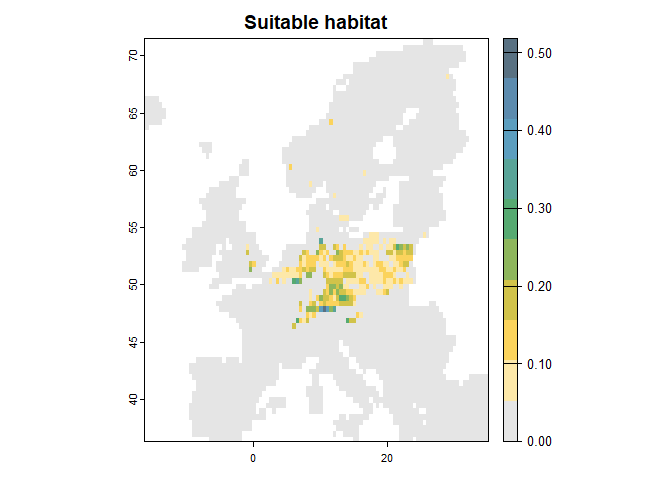
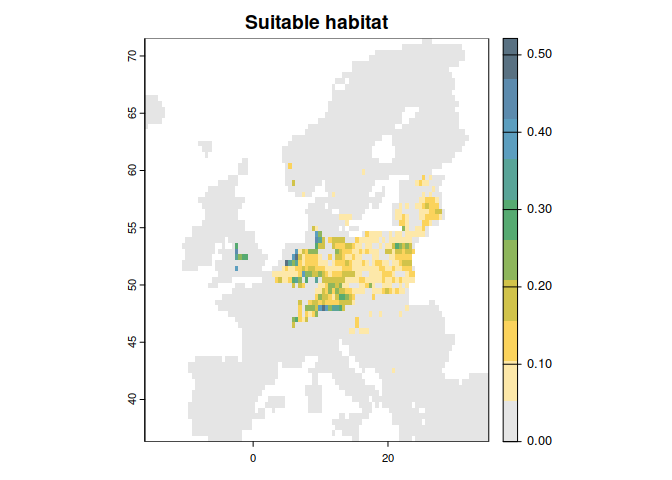
Support of stars objects for summaries

diff --git a/README.md b/README.md
@@ -30,8 +30,9 @@ and timestep $t$ as:
 $Insights_{s,t} = \frac{AOH_{s,t} - AOH_{s, t_{ref}}}{AOH_{s, t_{ref}}}$,
 where $t_{ref}$ indicates a reference or starting year.
 
-More information on the InSiGHTS framework can be found in [Rondini and
-Visconti 2015](https://doi.org/10.1111/cobi.12532), [Visconti et
+More information on the InSiGHTS framework can be found in [Pearson et
+al. 2004](https://doi.org/10.1046/j.1466-822X.2003.00042.x), [Rondini
+and Visconti 2015](https://doi.org/10.1111/cobi.12532), [Visconti et
 al. 2016](https://doi.org/10.1111/conl.12159) or [Baisero et
 al. (2021)](https://doi.org/10.1016/j.oneear.2020.05.015).
 
@@ -69,14 +70,19 @@ library(terra)
 ```
 
 Now we use the **ibis.iSDM** package to train a simple SDM and apply the
-InSiGHTS on it. Note that this also works on any other range estimate
-provided directly as a SpatRaster.
+InSiGHTS on it. The assumption here is that the SDMs are created using
+climatic variables (temperature, precipitation, etc.) only so as to
+create a climatic envelope model. The refinement with time series of
+land-use is done posthoc on the resulting prediction. Note that this
+also works on any other range estimate provided directly as a
+SpatRaster.
 
 ``` r
 # Load test data from ibis.iSDM package
 background <- terra::rast(system.file('extdata/europegrid_50km.tif', package='ibis.iSDM',mustWork = TRUE))
 virtual_points <- sf::st_read(system.file('extdata/input_data.gpkg', package='ibis.iSDM',mustWork = TRUE),'points',quiet = TRUE)
 ll <- list.files(system.file('extdata/predictors',package = 'ibis.iSDM',mustWork = TRUE),full.names = T)
+ll <- ll[grep("CLC",ll, invert = TRUE)]# Use only climatic predictors
 predictors <- terra::rast(ll);names(predictors) <- tools::file_path_sans_ext(basename(ll))
 
 # Now train a small little model
@@ -110,7 +116,7 @@ plot(out, col = c("grey90", "#FDE8A9", "#FBD35C", "#D1C34A", "#8EB65C",
 # Summarize
 insights_summary(out)
 #>   time suitability unit
-#> 1   NA    81641.67  km2
+#> 1   NA    123158.4  km2
 ```
 
 Of course it is also possible to directly supply a multi-dimensional
@@ -120,6 +126,9 @@ scenario functionalities (see example below).
 *Example to be added*
 
 ## Citations
+
+Jung M (2023). *insights: An R implementation of the InSiGHTS
+framework*. R package version 0.2.
 
 P. Visconti, M. Bakkenes, D. Baisero, T. Brooks, S.H.M. Butchart, L.
 Joppa, R. Alkemade, M. Di Marco, L. Santini, M. Hoffmann, C. Rondinini

diff --git a/NEWS.md b/NEWS.md
@@ -1,3 +1,7 @@
+# InSiGHTS 0.2
+
+* Support of stars objects for suitable habitat and refinements
+
 # InSiGHTS 0.1
 
 * Initial upload and basic functions
